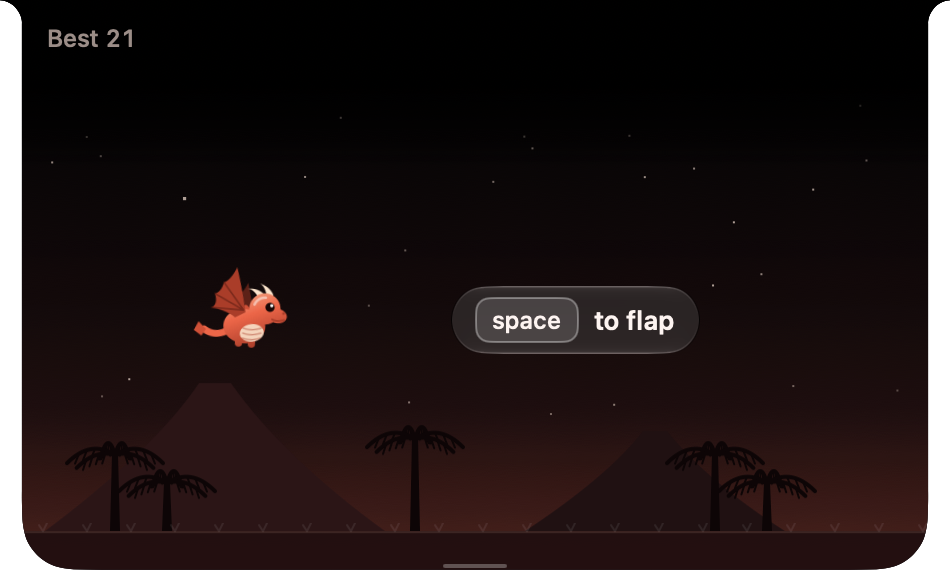
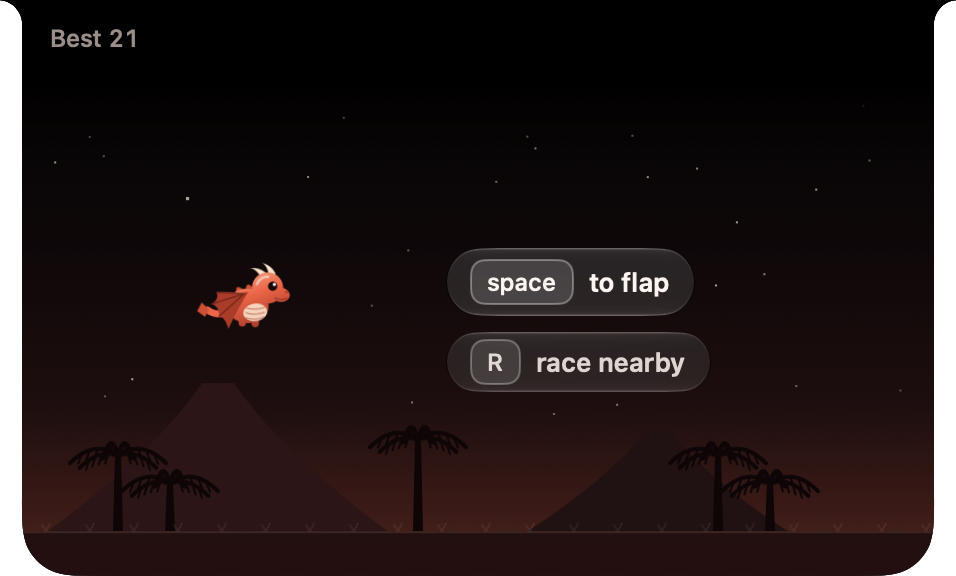
docs: fresh idle and crash screenshots

diff --git a/README.md b/README.md
@@ -14,7 +14,7 @@ Click the notch, press **⌃⌥Space**, or choose **Play** from the flame icon i
 **Space**. Press **Esc** to fold the game back into the notch. While it's folded, it does nothing at all.
 
 <p align="center">
-  <img src="assets/idle.png" width="270" alt="The island just opened: Pip hovers in place beside a 'space to flap' prompt">
+  <img src="assets/idle.png" width="270" alt="The island just opened: Pip hovers in place beside 'space to flap' and 'R race nearby' prompts">
   &nbsp;
   <img src="assets/crash.png" width="270" alt="A crashed run: a glass card shows the score and 'space to retry'">
 </p>
